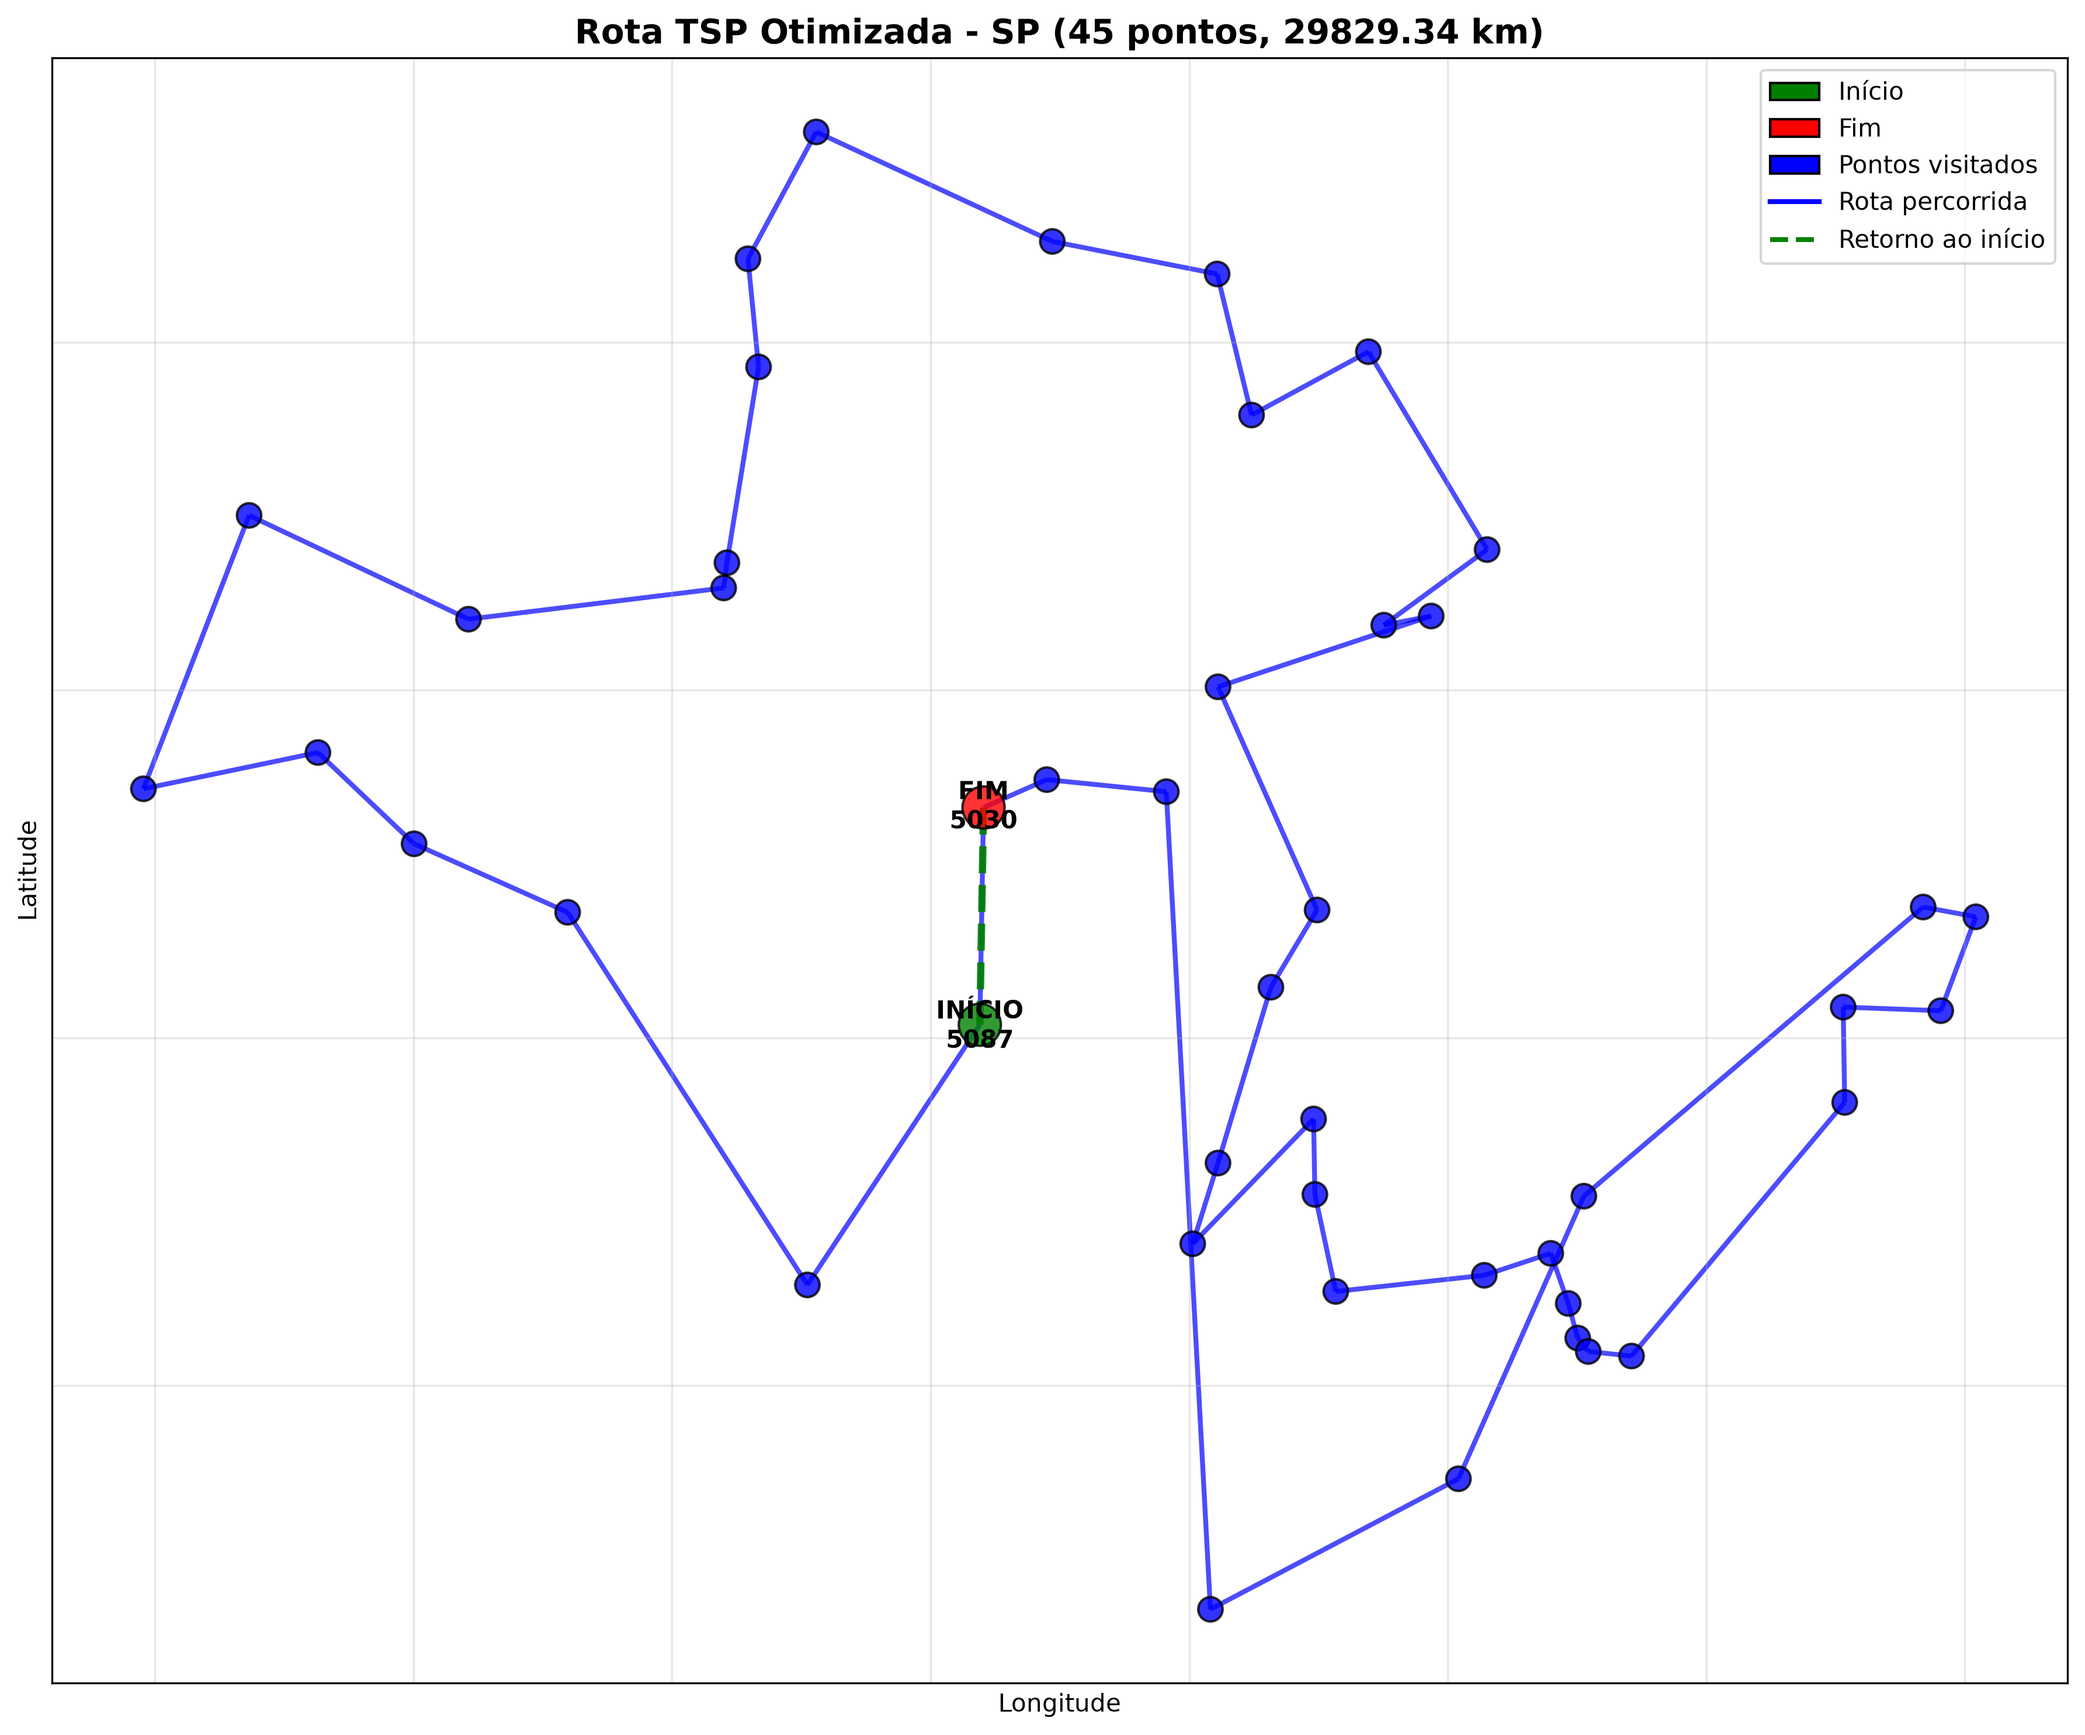
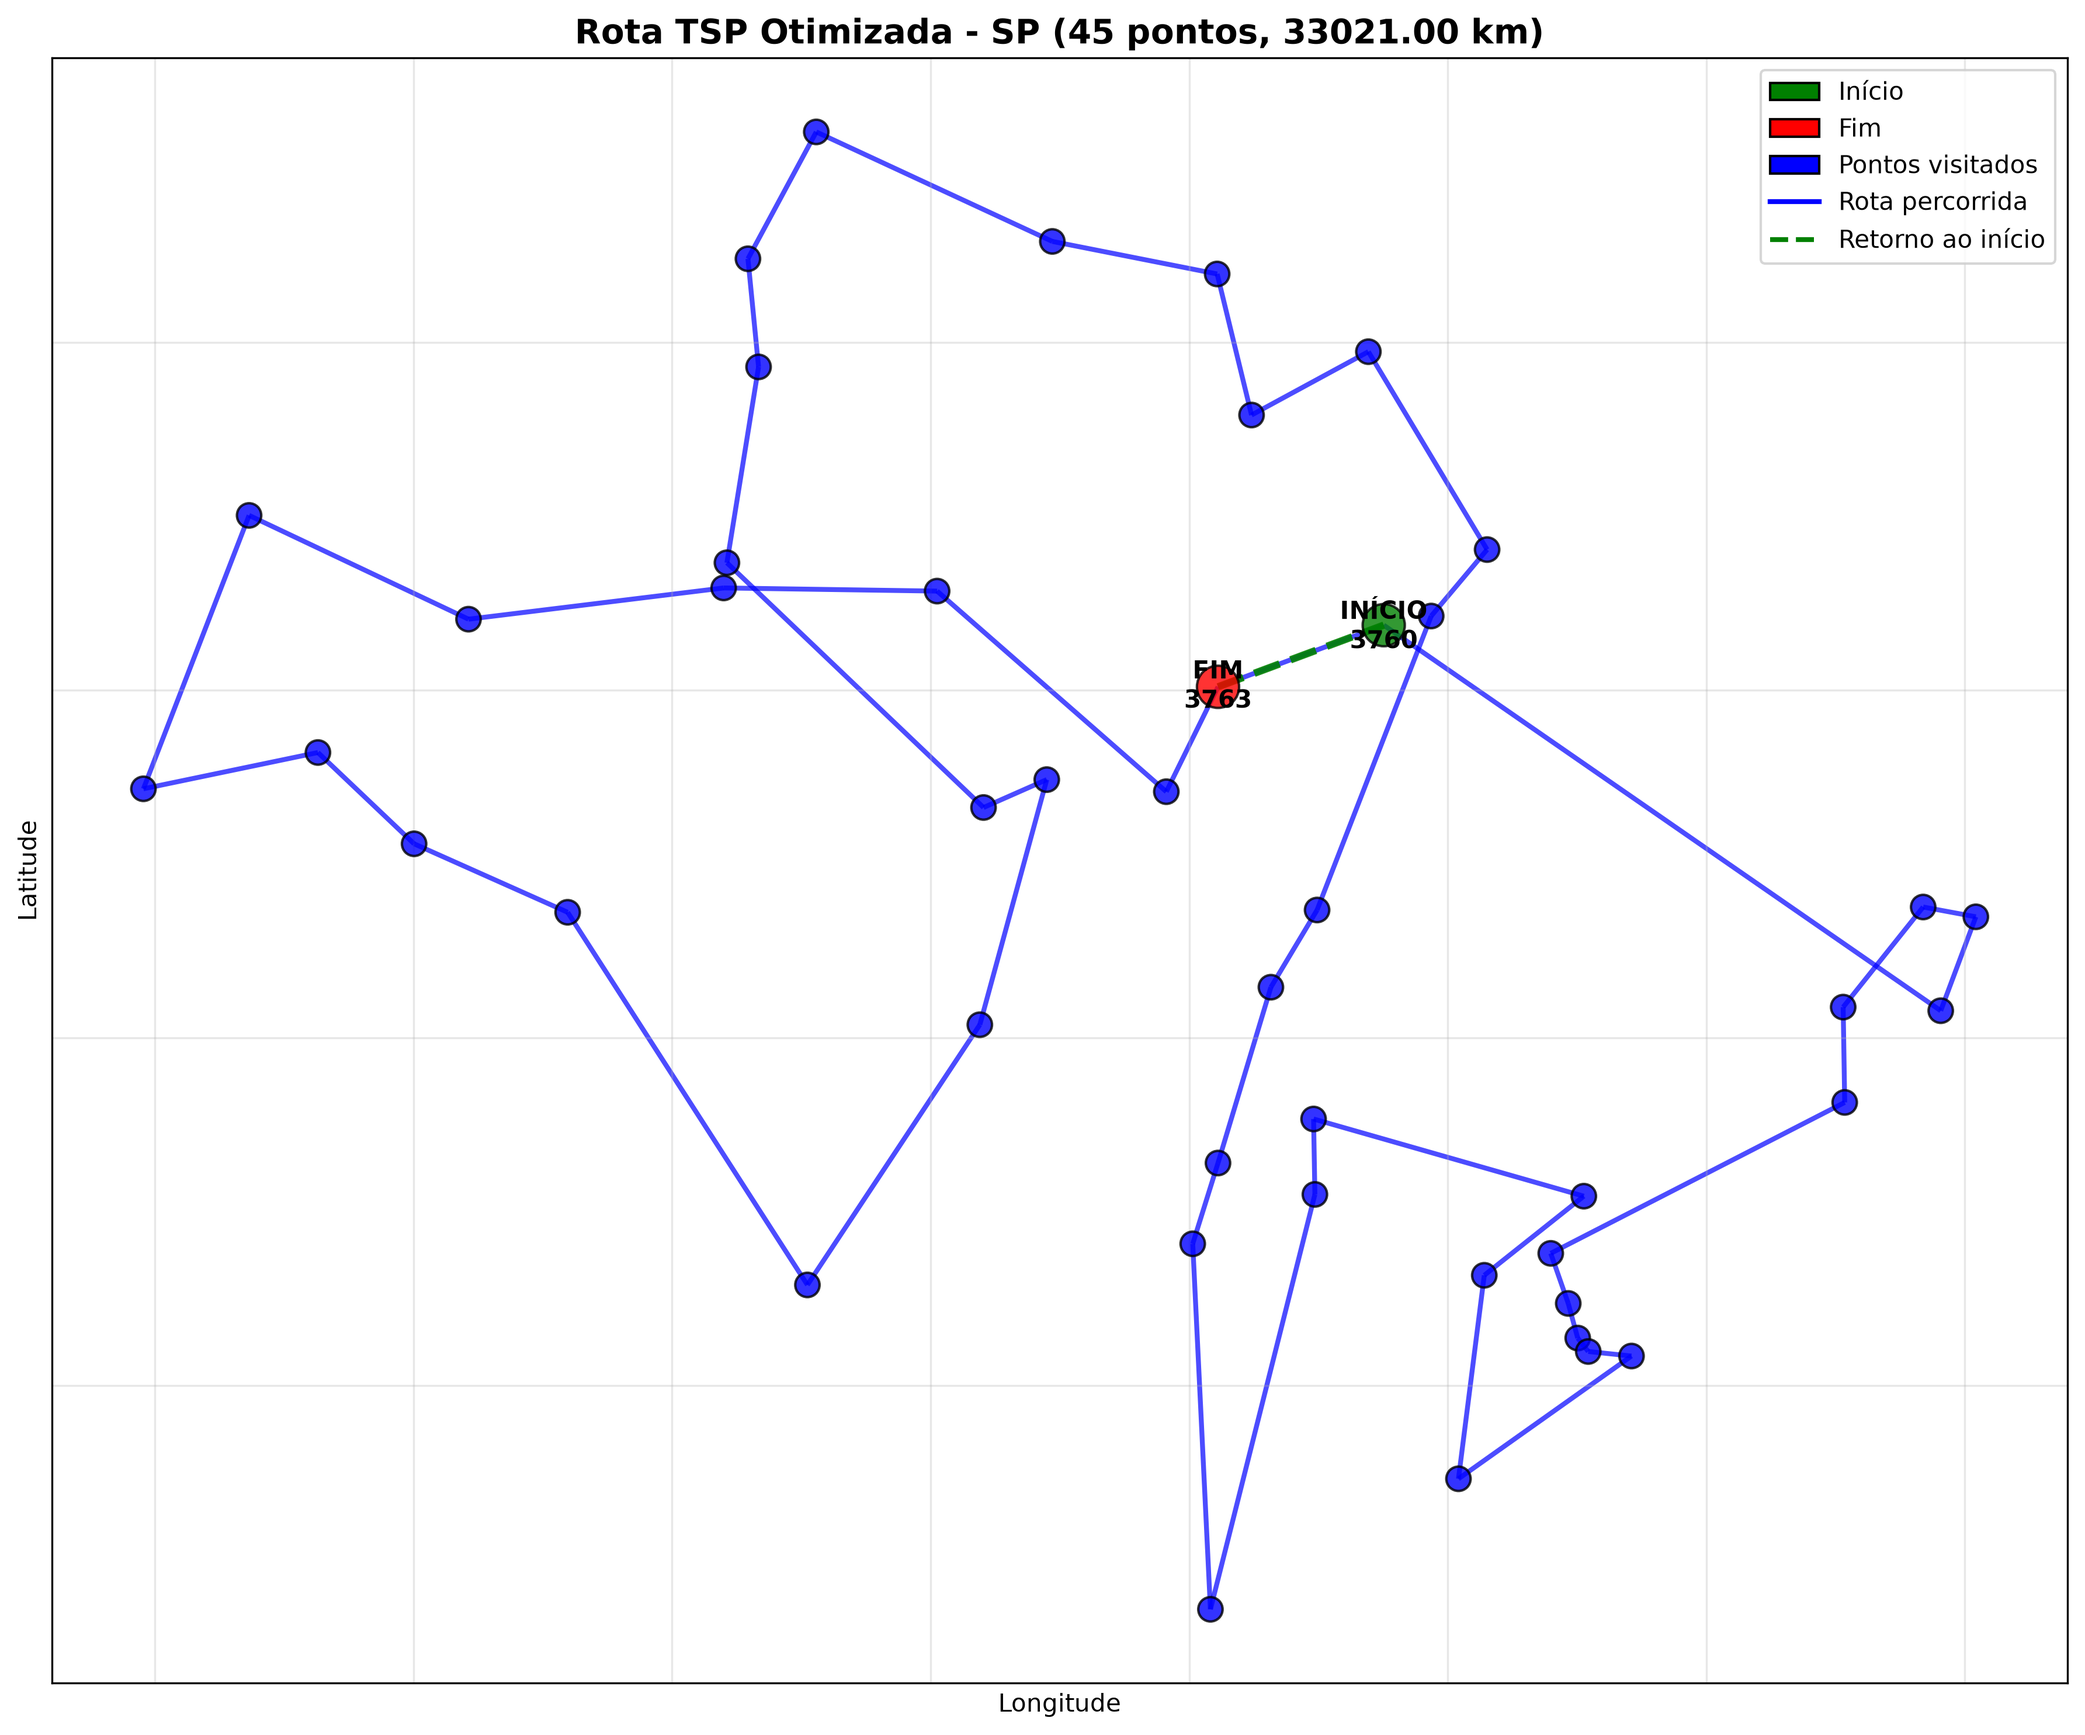
refactor: converte caminhos absolutos para relativos no main.py

diff --git a/src/main.py b/src/main.py
@@ -1,3 +1,4 @@
+import os
 import random
 import networkx as nx
 from graph.loader import carregar_grafo
@@ -12,12 +13,15 @@ from graph.otimizador_rotas import otimizar_rota_2opt
 from visualization.plotagem_tsp import plotar_rota_tsp_simples
 
 
+BASE_DIR = os.path.dirname(os.path.dirname(os.path.abspath(__file__)))
+
+
 def main():
     random.seed(25)
     # ==========================
     # 1. Carregar o grafo
     # ==========================
-    caminho = "/home/maria-vit-ria-nogueira-de-souza/Documentos/IA_M1/projeto-logistica-sul-sp/data/grafo_adjacencia_enriquecido.json"
+    caminho = os.path.join(BASE_DIR, "data", "grafo_adjacencia_enriquecido.json")
 
     nos, adjacencia = carregar_grafo(caminho)
 
@@ -88,7 +92,7 @@ def main():
         nos=nos_filtrados,
         adjacencia=adj_filtrada,
         componentes=[maior_componente],
-        nome_arquivo="/home/jorge/Documentos/HUBIA/Disciplinas/Linguagens_de_programacao/Trabalho_final_lp/projeto-logistica-sul-sp/images/ucs_result.png",
+        nome_arquivo=os.path.join(BASE_DIR, "images", "ucs_result.png"),
         origem=maior_origem,
         destino=maior_destino,
         caminho=maior_caminho,
@@ -102,7 +106,7 @@ def main():
         nos_filtrados,
         adj_filtrada,
         componentes,
-        "/home/maria-vit-ria-nogueira-de-souza/Documentos/IA_M1/projeto-logistica-sul-sp/images/componentes_separados.png"
+        os.path.join(BASE_DIR, "images", "componentes_separados.png")
     )
 
     # ==========================
@@ -207,7 +211,7 @@ def main():
         print(f"   {i:2d}. ID: {str(no_id):>6s} | UF: {str(uf):2s} | Região: {str(regiao):12s} | Coord: ({lat}, {lon})")
 
     # Salvar rota em arquivo
-    with open('/home/maria-vit-ria-nogueira-de-souza/Documentos/IA_M1/projeto-logistica-sul-sp/results/rota_otimizada_tsp_sp.txt', 'w', encoding='utf-8') as f:
+    with open(os.path.join(BASE_DIR, "results", "rota_otimizada_tsp_sp.txt"), 'w', encoding='utf-8') as f:
         f.write("ROTA OTIMIZADA - TSP (SP) COM 2-OPT\n")
         f.write("="*80 + "\n")
         f.write(f"Distância total: {distancia_total:.2f} km\n")
@@ -243,7 +247,7 @@ def main():
         adjacencia=adj_filtrada,
         titulo=f"Rota TSP Otimizada - SP ({len(resultado_tsp['rota'])} pontos, {resultado_tsp['distancia']:.2f} km)",
         salvar=True,
-        caminho_arquivo='/home/maria-vit-ria-nogueira-de-souza/Documentos/IA_M1/projeto-logistica-sul-sp/images/rota_tsp_sp.png'
+        caminho_arquivo=os.path.join(BASE_DIR, "images", "rota_tsp_sp.png")
     )
 if __name__ == "__main__":
     main()

diff --git a/src/algorithms/tsp.py b/src/algorithms/tsp.py
@@ -1,8 +1,3 @@
-"""
-Algoritmo Genético para resolver o Problema do Caixeiro Viajante (TSP)
-Aplicado ao grafo rodoviário brasileiro
-"""
-
 import random
 import math
 import numpy as np
